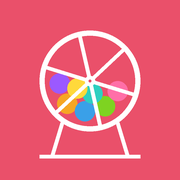
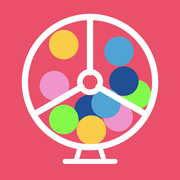
ホーム画面のアイコンを実機のアイコンに合わせる
Claude-Session: https://claude.ai/code/session_01GpuakfPqhB8WNF3BPHttRu

diff --git a/index.html b/index.html
@@ -6,7 +6,7 @@
 <meta name="viewport" content="width=device-width,initial-scale=1,maximum-scale=1,user-scalable=no,viewport-fit=cover">
 <title>11/5オリパ</title>
 <meta name="apple-mobile-web-app-title" content="抽選">
-<link rel="apple-touch-icon" href="icon.png">
+<link rel="apple-touch-icon" href="icon.png?v=2">
 <style>:root{padding-top:env(safe-area-inset-top,0px);padding-bottom:0}*,*::before,*::after{box-sizing:border-box}</style>
 <meta name="theme-color" content="#ea506a">
 <meta name="apple-mobile-web-app-capable" content="yes">
